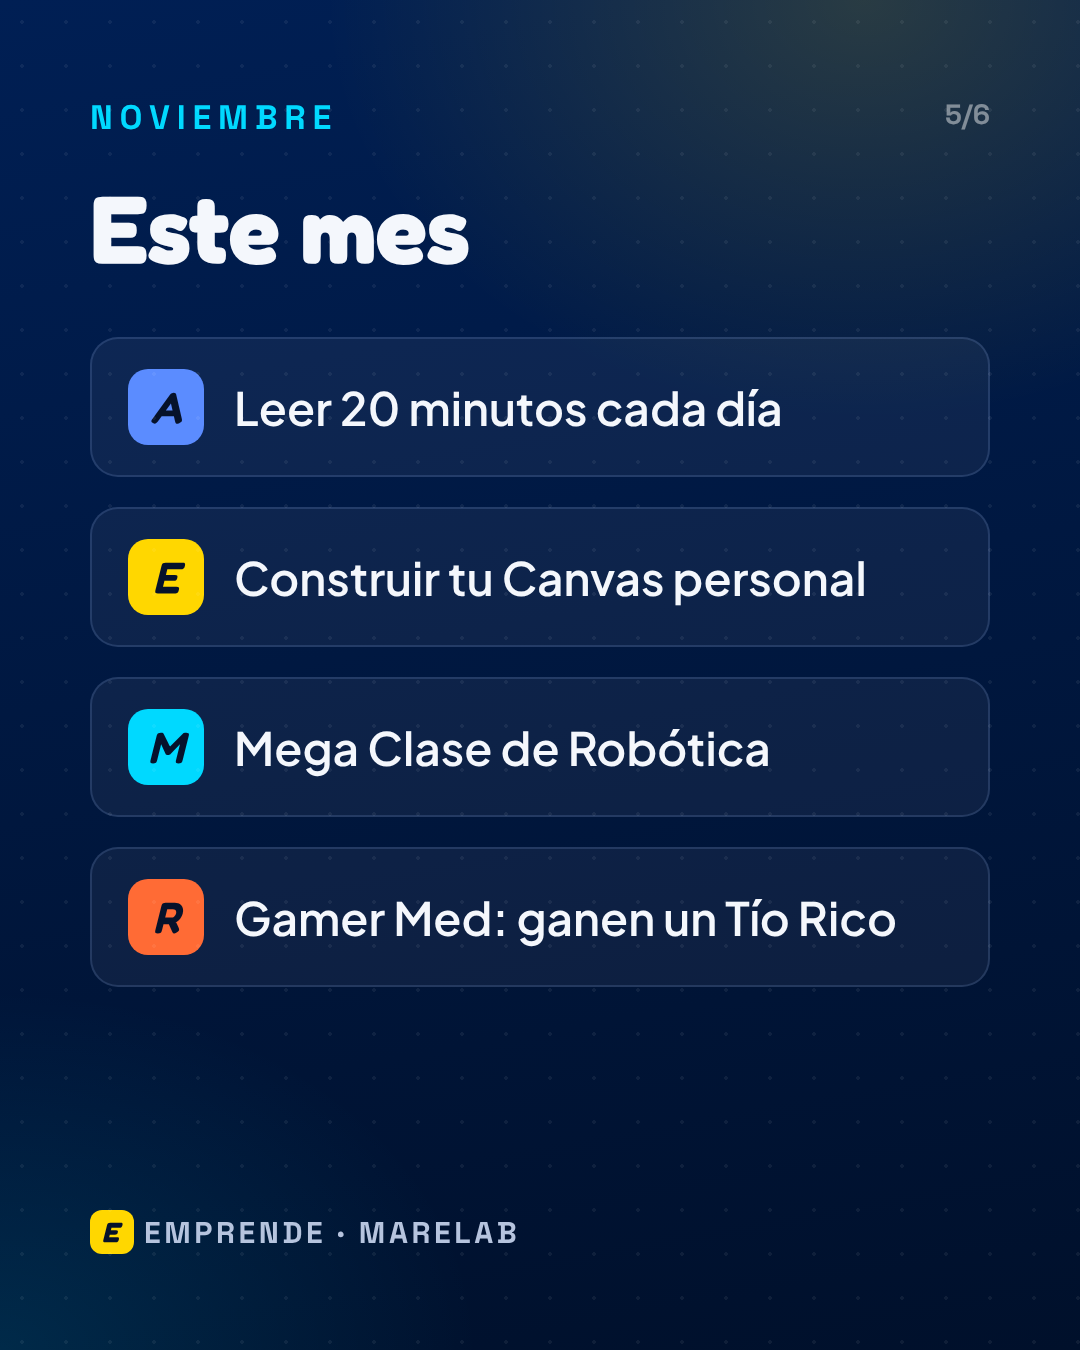
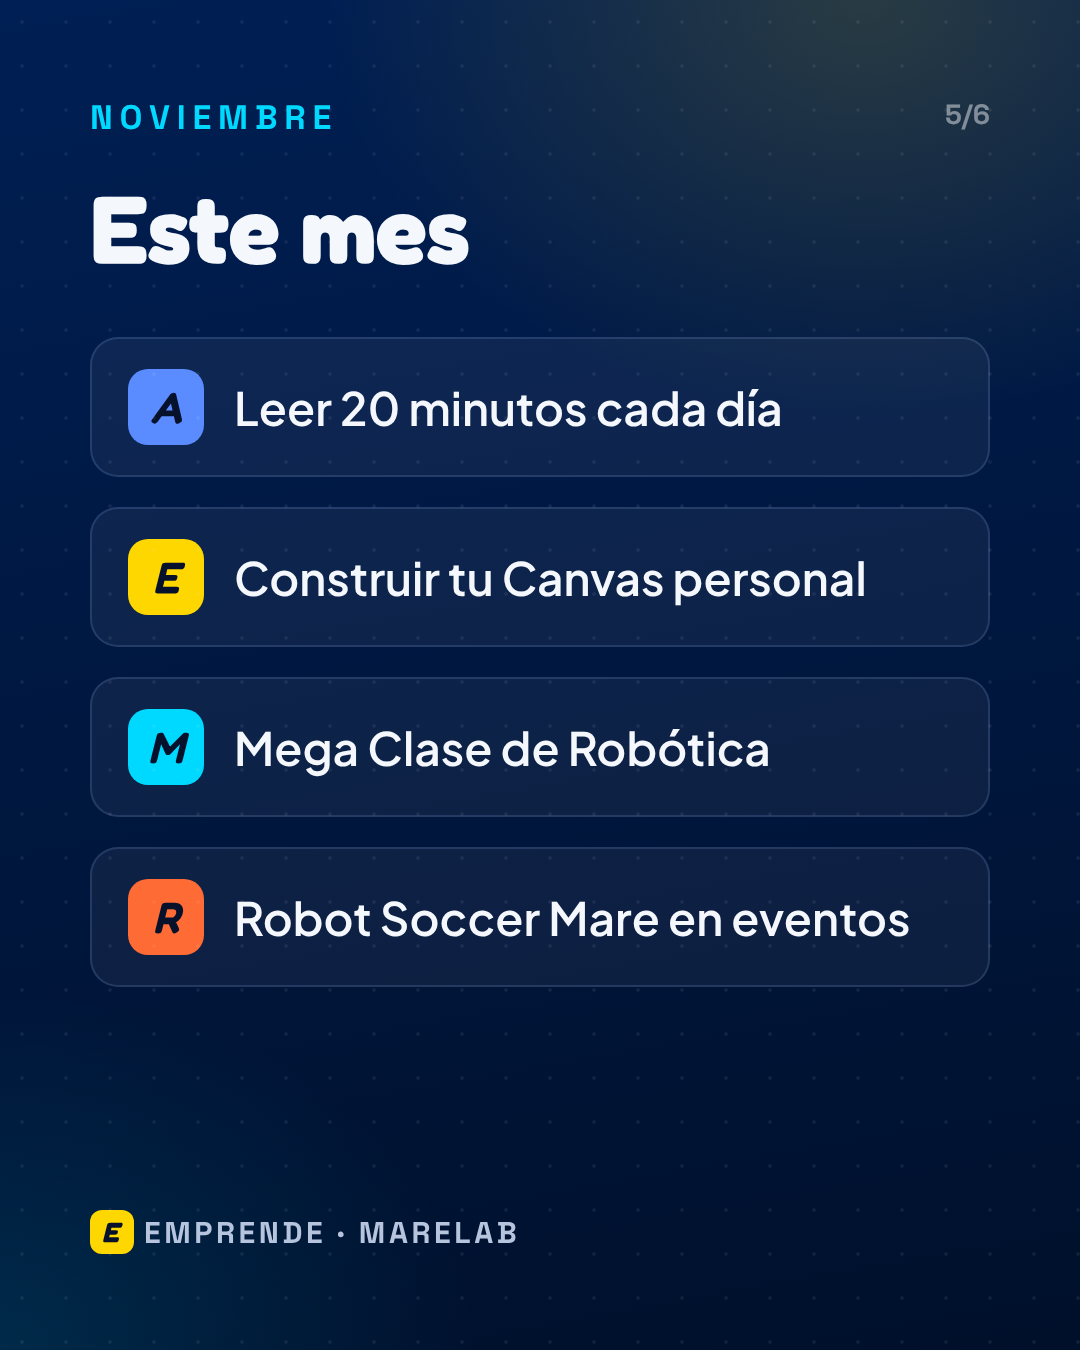
Correcciones críticas: Tío Rico/Ronda no confirmado + ajustes para lunes festivo y cumpleaños
- Reframed día 22 (Gamer Med): premios a definir, sin prometer Tío Rico
- Removidas promesas de sorteo en caption, semanas, slides y panel del día
- Día 2 (lunes 2 nov): contenido ligero para energía baja + contexto festivo
- Día 3 (martes 3 nov): unboxing + cumpleaños, conexión emocional
- Agregado FLEXIBILIDAD como 5º valor central: "si toca ajustar, ajustamos"
- Actualizado carrusel slide 5: "Robot Soccer Mare en eventos" (neutral)
- Regeneradas PNG slides con cambios
- Nota explícita en boveda-mare.html: Ronda solo si se suma por iniciativa propia

Ahora el plan es honesto: Ronda será etiquetada estratégicamente, pero sin
confirmar alianza ni premios hasta que ellos se decidan a participar.

Claude-Session: https://claude.ai/code/session_01V9qE7n7hfoUKC7N9n9s5w2

Changed region(s): [[0.2139, 0.6533, 0.8556, 0.7156]]

diff --git a/estrategia-noviembre-2026/boveda-mare.html b/estrategia-noviembre-2026/boveda-mare.html
@@ -210,9 +210,9 @@ footer{color:var(--fg-mute);font-size:.82rem;text-align:center}
 
   <section aria-labelledby="hThermo" style="display:grid;gap:18px">
     <div>
-      <p class="eyebrow">Propósito, enfoque, disciplina y medición</p>
+      <p class="eyebrow">Propósito, enfoque, disciplina, flexibilidad y medición</p>
       <h2 id="hThermo">Termómetro MARE</h2>
-      <p class="muted" style="max-width:70ch;margin-top:8px">Cada día marca 4 hábitos en el panel de la casilla. El termómetro mide desde el día 1 hasta la casilla donde está la ficha. Las marcas se guardan en este navegador.</p>
+      <p class="muted" style="max-width:70ch;margin-top:8px">Cada día marca 4 hábitos en el panel de la casilla. El termómetro mide desde el día 1 hasta la casilla donde está la ficha. <strong>Flexibilidad:</strong> si toca ajustar el plan, lo ajustamos. Las marcas se guardan en este navegador.</p>
     </div>
     <div class="thermo" id="thermo"></div>
   </section>
@@ -262,7 +262,7 @@ footer{color:var(--fg-mute);font-size:.82rem;text-align:center}
       <div class="week"><span class="when">1–7 nov</span><h3>Abrir la bóveda</h3><ul><li>Lanzamiento del tablero en público</li><li>Ganadores INN-GAME: la historia</li><li>Unboxing del Tío Rico</li><li>Reto "Enciende una luz" + guía gratis</li><li>Canal de WhatsApp La Marea</li></ul><p class="goal">Meta: 100 personas en La Marea · 5 propuestas B2B</p></div>
       <div class="week"><span class="when">8–14 nov</span><h3>Constituir la empresa</h3><ul><li>13 nov: Marelab constituida</li><li>Casa Marelab: espacio de trabajo</li><li>BMY: tu Canvas personal</li><li>Fábrica de Ventas y Vita XtraT</li><li>Live: del proyecto de grado ITM a empresa</li></ul><p class="goal">Meta: empresa, RUT y cuenta · primera venta online</p></div>
       <div class="week"><span class="when">15–21 nov</span><h3>Aprender y vender</h3><ul><li>Libro: enseñar a leer con IA (capítulo 0)</li><li>Hora de poder con Gemini + Canva</li><li>Mega Clase de Robótica mBot en vivo</li><li>Preventa en Hotmart</li><li>Libro Robot Soccer Mare: convocatoria de historias</li></ul><p class="goal">Meta: 100 registros a la Mega Clase · 10 ventas Hotmart</p></div>
-      <div class="week"><span class="when">22–30 nov</span><h3>Escalar la Marea</h3><ul><li>Ganen Tío Rico en Gamer Med</li><li>Inmerxia</li><li>Expl-AI-n, Plaza Mayor (25 y 26)</li><li>Black Friday Marelab (27)</li><li>Balance real de la bóveda (30)</li></ul><p class="goal">Meta: 150 leads en evento · 10 reuniones B2B</p></div>
+      <div class="week"><span class="when">22–30 nov</span><h3>Escalar la Marea</h3><ul><li>Robot Soccer Mare en Gamer Med (arena abierta)</li><li>Inmerxia</li><li>Expl-AI-n, Plaza Mayor (25 y 26)</li><li>Black Friday Marelab (27)</li><li>Balance real de la bóveda (30)</li></ul><p class="goal">Meta: 200+ participantes en eventos · 20 reuniones B2B</p></div>
     </div>
     <div>
       <h3 style="margin-bottom:6px">La Fábrica de Ventas, en una línea</h3>
@@ -288,7 +288,7 @@ footer{color:var(--fg-mute);font-size:.82rem;text-align:center}
         <div class="slide"><span>2 · El sueño</span><b>Ganamos un Tío Rico y recordé mi sueño</b><span>Tu foto en INN-GAME con la Edición de Lujo</span></div>
         <div class="slide"><span>3 · Lo que ya ganamos</span><b>INN-GAME · Fondo Emprender · 45.000</b><span>Trofeo y cifras grandes</span></div>
         <div class="slide"><span>4 · El tablero</span><b>30 casillas, un paso diario</b><span>Captura del tablero MARE</span></div>
-        <div class="slide"><span>5 · Este mes</span><b>Leer · Canvas personal · Gamer Med</b><span>"Ganen un Tío Rico"</span></div>
+        <div class="slide"><span>5 · Este mes</span><b>Leer · Canvas personal · Robótica</b><span>Arena RSM en Gamer Med, Mega Clase, eventos</span></div>
         <div class="slide"><span>6 · Llamado</span><b>Comenta MAREA</b><span>Súmate a la comunidad</span></div>
       </div>
     </div>
@@ -305,7 +305,7 @@ Lo que ya tenemos guardado en la bóveda:
 🤖 Casi 45.000 personas impactadas en 10 departamentos
 📅 13 de noviembre: Marelab se constituye como empresa
 
-Este mes vamos a leer todos los días, a construir tu Canvas personal, a jugar en Gamer Med (y regalar un Tío Rico 👀) y a contar cómo usamos la IA para crear.
+Este mes vamos a leer todos los días, a construir tu Canvas personal, a llevar Robot Soccer Mare a Gamer Med (arena abierta) y a contar cómo usamos la IA para crear.
 
 La meta es inspirar a millones de personas, y eso no se hace solo.
 
@@ -358,8 +358,8 @@ La meta es inspirar a millones de personas, y eso no se hace solo.
 (function(){
 const DAYS = [
  {p:'R',t:'Abrimos la bóveda',m:'Lanzar el tablero en público y abrir el canal de WhatsApp La Marea.',pub:'Reel "Día 1 de 30: abrimos la bóveda" + carrusel con las monedas ya ganadas. Etiquetar a Ronda.',$:'Construir la lista: cada comentario MAREA es un contacto.',k:'50 personas en La Marea',ev:1},
- {p:'M',t:'Ganadores INN-GAME',m:'Contar la historia del primer puesto INN-GAME 2026 y convertirla en oferta B2B.',pub:'Carrusel "Cómo un juego de robots ganó el premio a formación organizacional".',$:'Enviar 5 propuestas RSM a empresas para cierres de año y fiestas de diciembre.',k:'5 propuestas enviadas'},
- {p:'R',t:'Unboxing Tío Rico',m:'Unboxing del Tío Rico Mc Pato Edición de Lujo que ganamos en INN-GAME. Explicar por qué nuestro tablero tiene 30 casillas. Encuesta: ¿en tu casa se jugaba Tío Rico o Monopoly?',pub:'Video unboxing de 45 s: "abrimos el premio con el que nació esta estrategia". Etiquetar a Ronda y a INN-GAME.',$:'Enlace a experiencias de juego para colegios y empresas.',k:'1.000 vistas'},
+ {p:'M',t:'El sueño que regresó',m:'Día de baja energía (lunes festivo). Contar el sueño personal: la piscina de monedas, cómo lo recordamos al ganar el Tío Rico en INN-GAME. Contenido ligero; detrás de cámaras.',pub:'Story o reel corto: "El sueño que volvió. Hace poco ganamos un Tío Rico y recordé por qué hago esto".',$:'Conectar emocionalmente con la Marea.',k:'Energía mantenida'},
+ {p:'R',t:'Mi cumpleaños + Unboxing',m:'Hoy 3 de noviembre es mi cumpleaños. El mejor regalo: abrir el Tío Rico Edición de Lujo que ganamos en INN-GAME. Video unboxing: explicar el juego, por qué el tablero tiene 30 casillas, y la encuesta: ¿Tío Rico o Monopoly?',pub:'Video unboxing de 1 min: "hoy es mi cumpleaños y abrimos el regalo" (Tío Rico Mc Pato). Etiquetar a INN-GAME. Encuesta en historias.',$:'Conexión con Ronda estratégica (sin confirmar alianza). Leads de colegios y empresas.',k:'1.500 vistas'},
  {p:'A',t:'Enciende una luz',m:'Reto de electrónica en 60 segundos: un LED, una pila, una sonrisa.',pub:'Reel tutorial + guía PDF gratis a cambio del WhatsApp.',$:'Imán de leads para la Mega Clase.',k:'30 leads'},
  {p:'E',t:'Convocatorias ITM',m:'Responder la invitación del ITM y proponer la charla sobre convocatorias.',pub:'Post "Cómo ganamos Fondo Emprender con 95,27": 5 lecciones.',$:'Posicionamiento como referente; abre puertas a mentorías pagas.',k:'Fecha de charla agendada',tbc:1},
  {p:'R',t:'El Rocket League real',m:'Mostrar Robot Soccer Mare en acción.',pub:'Clip con goles y gritos: "el Rocket League de la vida real".',$:'Cotizaciones RSM para fin de año.',k:'3 cotizaciones'},
@@ -378,7 +378,7 @@ const DAYS = [
  {p:'A',t:'Mega Clase en vivo',m:'Clase en vivo de robótica. Oferta al final.',pub:'Live + reels cortos de la clase al día siguiente.',$:'Ventas Hotmart y kits.',k:'30% de asistencia'},
  {p:'R',t:'Unboxing: mBot 2 y Neuron',m:'Unboxing de mBot 2 y kit Neuron, y reto a la comunidad.',pub:'Video "qué creamos en 10 minutos" y reto con premio.',$:'Preventa de kits con TD Robótica.',k:'20 participantes en el reto'},
  {p:'M',t:'Libro Robot Soccer Mare',m:'Anunciar el libro de RSM y recoger historias de jugadores.',pub:'Post "Robot Soccer Mare se merece un libro. ¿Cuál es tu historia?".',$:'Patrocinadores del libro y del torneo.',k:'20 historias recibidas'},
- {p:'R',t:'Ganen Tío Rico en Gamer Med',m:'Arena RSM en Gamer Med (Inder Medellín): quien meta gol al robot entra al sorteo de un Tío Rico. Fecha por confirmar.',pub:'Cobertura en vivo + "ven, mete un gol y gánate un Tío Rico". Ganador anunciado en vivo.',$:'Para participar: unirse a La Marea con el QR.',k:'200 participantes en el sorteo',tbc:1,ev:1},
+ {p:'R',t:'Arena RSM en Gamer Med',m:'Robot Soccer Mare en Gamer Med (Inder Medellín): activación con retos y premios a definir según alianzas confirmadas. Fecha por confirmar.',pub:'Cobertura en vivo: "ven, mete un gol a un robot real en Gamer Med". Premios a anunciar.',$:'Para participar: unirse a La Marea con el QR. Leads calientes de deportes y tecnología.',k:'200+ participantes en arena',tbc:1,ev:1},
  {p:'R',t:'Inmerxia',m:'Participación en Inmerxia: experiencia RSM inmersiva. Fecha por confirmar.',pub:'Reel de la experiencia y entrevistas cortas.',$:'Leads B2B y nuevo canal de distribución.',k:'5 reuniones agendadas',tbc:1},
  {p:'A',t:'Enciende una luz a escala',m:'Proyecto Bindec y electrónica para millones: campaña de prerregistro.',pub:'Reel "Queremos que un millón de personas enciendan su primera luz".',$:'Lista de espera para kit propio.',k:'100 prerregistros'},
  {p:'R',t:'Expl-AI-n día 1',m:'Zona MARE en Plaza Mayor. Captar leads con QR.',pub:'Historias en vivo cada hora + reel de cierre.',$:'Leads y reuniones B2B.',k:'150 leads',ev:1},
@@ -529,7 +529,8 @@ function renderThermo(){
     ['Medición','Misiones del tablero cumplidas',[...done].filter(d=>d<=n).length/n,'var(--ok)']
   ];
   $('thermo').innerHTML=items.map(([t,s,v,c])=>`<div class="th"><div class="th-top"><b>${t}</b><span class="num">${Math.round(v*100)}%</span></div><div class="meter"><i style="width:${v*100}%;background:${c}"></i></div><small>${s}</small></div>`).join('')
-   +`<div class="th read"><div class="th-top"><b>Racha de lectura</b><span class="num">${streak} ${streak===1?'día':'días'}</span></div><small>${cnt[0]} de ${n} días con 20 minutos de lectura. Leer es la actividad clave del mes.</small></div>`;
+   +`<div class="th read"><div class="th-top"><b>Racha de lectura</b><span class="num">${streak} ${streak===1?'día':'días'}</span></div><small>${cnt[0]} de ${n} días con 20 minutos de lectura. Leer es la actividad clave del mes.</small></div>`
+   +`<div class="th" style="grid-column:1/-1;border-top:1px solid var(--line);padding-top:14px;margin-top:14px"><b style="display:block;margin-bottom:8px">Flexibilidad 🧘</b><small>Si toca ajustar el plan según energía, contexto o nuevas oportunidades, <strong>ajustamos</strong>. La bóveda es una brújula, no un cepo. Este mes priorizamos la sostenibilidad sobre la perfección.</small></div>`;
 }
 function render(){renderSim();renderBoard();renderPanel();renderThermo()}
 function move(n){pos=Math.min(30,Math.max(1,n));sel=pos;store.set('boveda.pos',pos);render()}

diff --git a/estrategia-noviembre-2026/carrusel-dia-1/carrusel.html b/estrategia-noviembre-2026/carrusel-dia-1/carrusel.html
@@ -96,7 +96,7 @@ p{font-size:44px;line-height:1.35;color:var(--soft)}
     <div class="li"><i class="pill" style="background:var(--blue)">A</i>Leer 20 minutos cada día</div>
     <div class="li"><i class="pill" style="background:var(--gold)">E</i>Construir tu Canvas personal</div>
     <div class="li"><i class="pill" style="background:var(--cyan)">M</i>Mega Clase de Robótica</div>
-    <div class="li"><i class="pill" style="background:var(--coral)">R</i>Gamer Med: ganen un Tío Rico</div>
+    <div class="li"><i class="pill" style="background:var(--coral)">R</i>Robot Soccer Mare en eventos</div>
   </div>
   <div class="foot"><span class="brand"><i class="pill" style="background:var(--gold)">E</i>Emprende · Marelab</span><span></span></div>
 </section>

diff --git a/estrategia-noviembre-2026/carrusel-dia-1/shot.js b/estrategia-noviembre-2026/carrusel-dia-1/shot.js
@@ -1,0 +1,7 @@
+const { chromium } = require('playwright');
+(async()=>{const b=await chromium.launch();const p=await b.newPage({viewport:{width:1200,height:1400}});
+await p.goto('file://'+process.argv[2]+'/carrusel.html',{waitUntil:'networkidle'}).catch(()=>{});
+await p.evaluate(()=>document.fonts.ready);
+const f=await p.evaluate(()=>[...document.fonts].filter(x=>x.status==='loaded').map(x=>x.family));console.log('fonts',[...new Set(f)]);
+for(let i=1;i<=6;i++){await p.locator('#s'+i).screenshot({path:process.argv[2]+`/emprende-dia1-${i}.png`})}
+await b.close()})();
